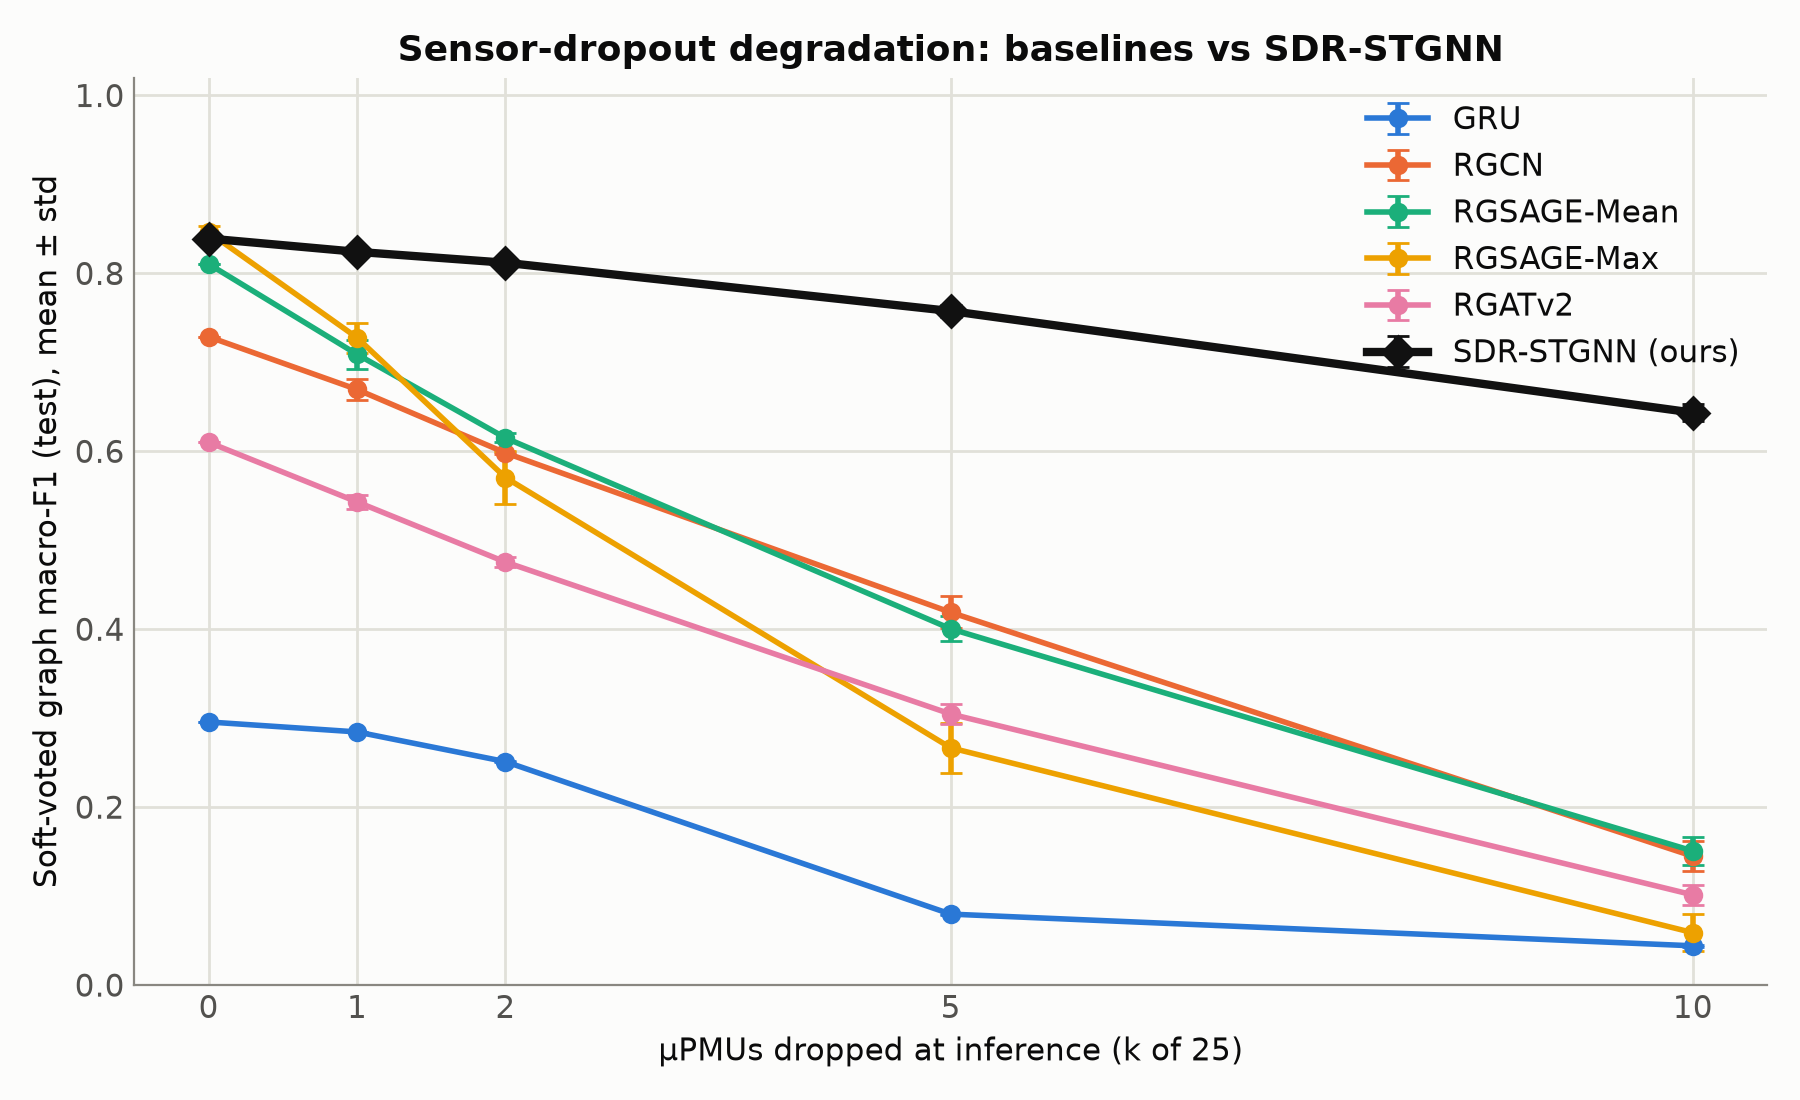
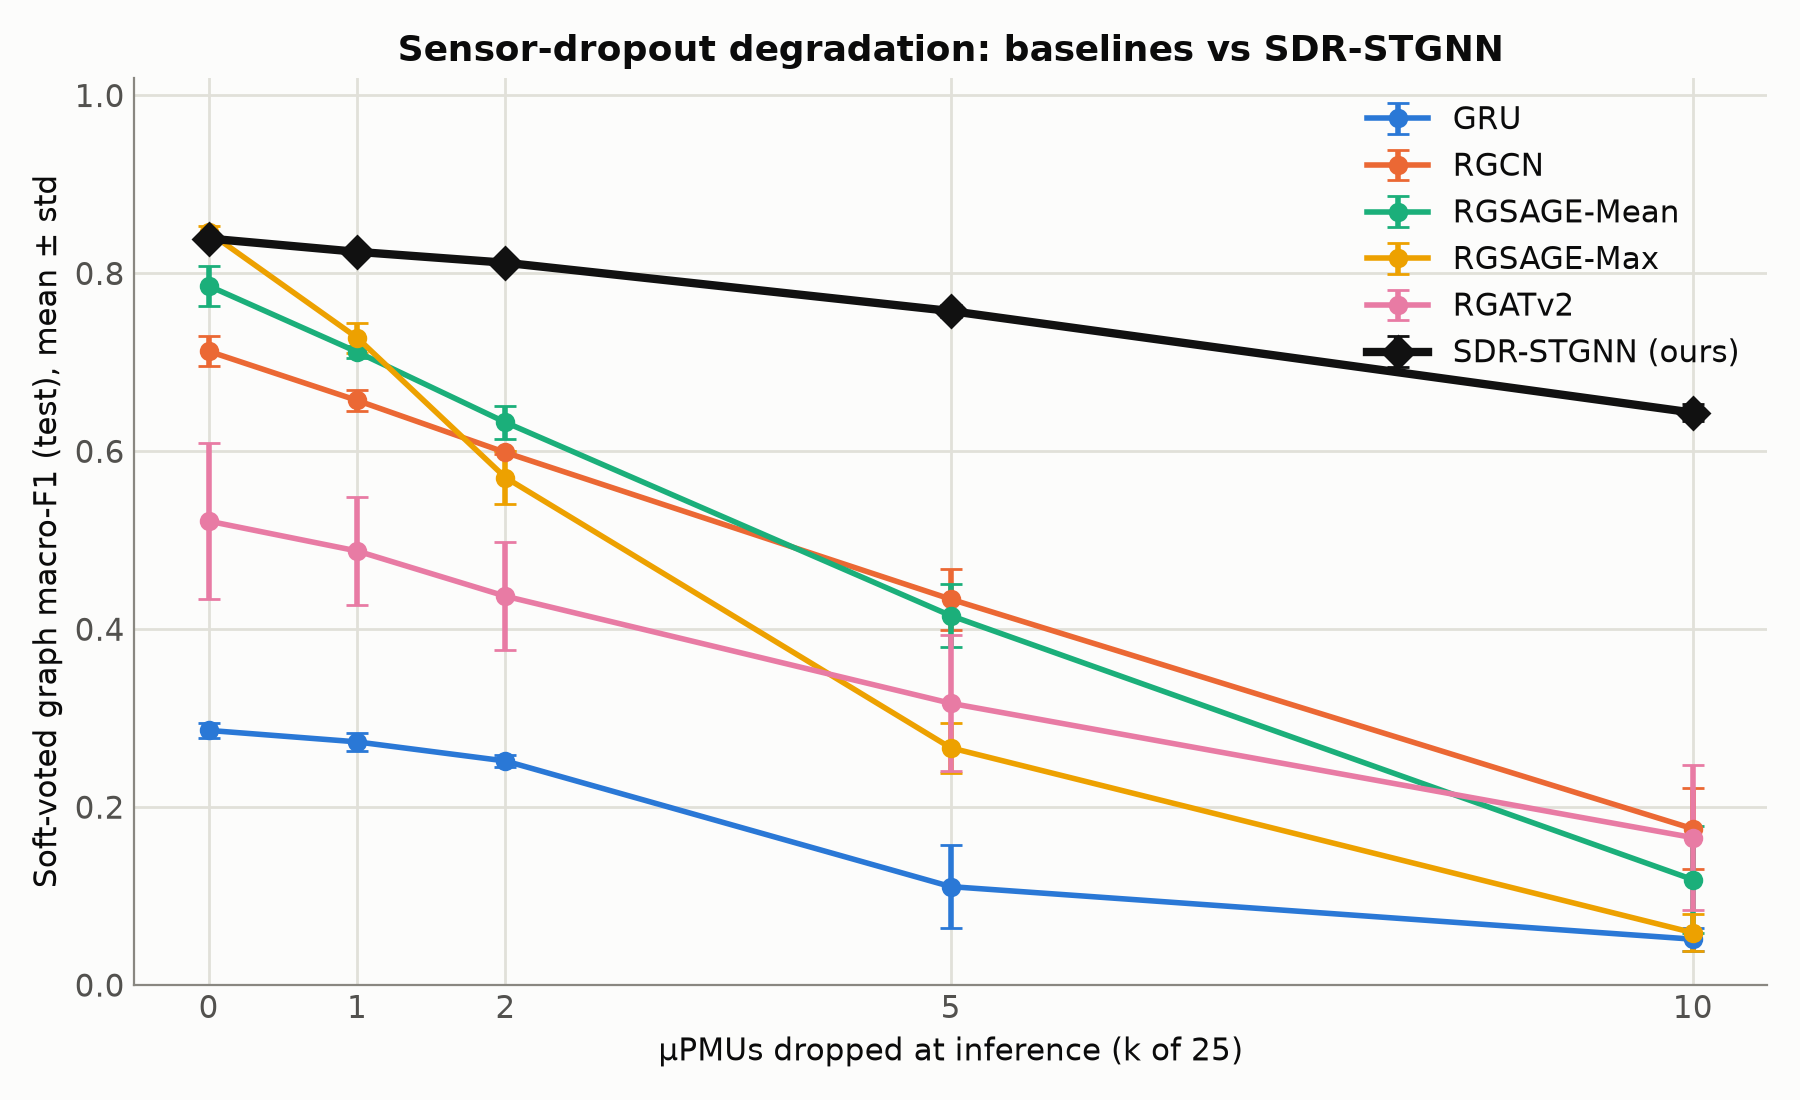
Eval Sweep done and folder into paper where we did the 3 seed averaging which also chnged robustness ranking

diff --git a/paper/overleaf.tex b/paper/overleaf.tex
@@ -605,7 +605,7 @@ Section~\ref{sec:methods}. Training was fully deterministic through fixed random
 
 \textbf{Training objective.} Models are trained by minimizing the node-level cross-entropy loss defined in Section~\ref{sec:methods}, without class weighting. Class imbalance is addressed by dataset construction rather than by the loss. Specifically, the corpus is balanced with 50\% no-fault samples (Table~\ref{tab:dataset}), while the 25 fault locations are uniformly represented through the $25 \times 11 \times 3$ factorial design. The training distribution therefore does not favour any fault location, and a standard cross-entropy objective provides equal treatment to all classes. This is a deliberate departure from a common inverse-frequency-weighted recipe, discussed further in Section~\ref{sec:repro}.
 
-\textbf{Seeds and multi-seed reporting.} All sources of training stochasticity --- parameter initialization, mini-batch ordering, and the dropout-aware masking procedure --- are controlled by a single integer random seed. All five baselines (GRU, RGCN, RGSAGE-Mean, RGSAGE-Max, and RGATv2) and both robustness variants (dropout-aware RGSAGE-Max and SDR-STGNN) were trained using three independent seeds (42, 43, and 44), and their reported full-observability metrics are the mean\,$\pm$\,standard deviation across these runs. The sensor-dropout degradation analysis (Section~\ref{sec:res-degrade}) is seed-averaged for RGSAGE-Max and the two robustness variants; for the other four baselines it is evaluated on the seed-42 checkpoint, with the reported variability there arising from the random mask realizations (Section~\ref{sec:dropout-eval}).
+\textbf{Seeds and multi-seed reporting.} All sources of training stochasticity --- parameter initialization, mini-batch ordering, and the dropout-aware masking procedure --- are controlled by a single integer random seed. All five baselines (GRU, RGCN, RGSAGE-Mean, RGSAGE-Max, and RGATv2) and both robustness variants (dropout-aware RGSAGE-Max and SDR-STGNN) were trained using three independent seeds (42, 43, and 44), and their reported full-observability metrics are the mean\,$\pm$\,standard deviation across these runs. The sensor-dropout degradation analysis (Section~\ref{sec:res-degrade}) is likewise seed-averaged over 42/43/44 for every model, with three random mask realizations per seed (Section~\ref{sec:dropout-eval}).
 
 \textbf{Dropout-aware training.} The dropout-aware variant (Section~\ref{sec:dropout-aware}) uses the same optimization and training configuration described above. The only modification is that each mini-batch is augmented immediately before the forward pass by randomly masking each window, with the dropout level uniformly sampled from $\{0,1,2,5\}$. No hyperparameter was retuned, so any change in robustness can be attributed solely to training-time augmentation rather than to a different training budget.
 
@@ -636,7 +636,7 @@ which constitutes paper's primary evaluation. Finally, we show the effectiveness
 
 Unless otherwise stated, all results are computed on the frozen test split defined in Table~\ref{tab:dataset}. All five baselines and the two robustness variants are reported at full observability as
 mean\,$\pm$\,standard deviation over three independent training seeds
-(42, 43, and 44). The sensor-dropout degradation curves (Section~\ref{sec:res-degrade}) are seed-averaged for RGSAGE-Max and the robustness variants, and evaluated on the seed-42 checkpoint for the other four baselines, consistent with Section~\ref{sec:setup}.
+(42, 43, and 44). The sensor-dropout degradation curves (Section~\ref{sec:res-degrade}) are seed-averaged over 42/43/44 for every model, consistent with Section~\ref{sec:setup}.
  
 \subsection{Baseline Accuracy Under Full Observability}
 \label{sec:res-baseline}
@@ -747,9 +747,9 @@ Table~\ref{tab:baseline} also addresses the spatial-depth question introduced in
 \subsection{Accuracy Degradation Under Sensor Dropout}
 \label{sec:res-degrade}
 
-We now freeze each baseline and evaluate it under the dropout sweep of Section~\ref{sec:dropout-eval}, progressively moving $k\in\{0,1,2,5,10\}$ of the $25$ $\mu$PMUs at inference time. Table~\ref{tab:degradation} summarizes the resulting degradation curves through the normalized area under the retention curve (AUDC) and the retention at the most severe dropout level ($k=10$, corresponding to $40\%$ sensor loss), while Fig.~\ref{fig:degradation} shows the complete macro-$F_1$ degradation curves. All models decline in performance as sensors are removed, and the loss becomes substantial at higher dropout levels. No baseline retains more than a fifth of its full-observability macro-F1 at $k=10$.
+We now freeze each baseline and evaluate it under the dropout sweep of Section~\ref{sec:dropout-eval}, progressively moving $k\in\{0,1,2,5,10\}$ of the $25$ $\mu$PMUs at inference time. Table~\ref{tab:degradation} summarizes the resulting degradation curves through the normalized area under the retention curve (AUDC) and the retention at the most severe dropout level ($k=10$, corresponding to $40\%$ sensor loss), while Fig.~\ref{fig:degradation} shows the complete macro-$F_1$ degradation curves. All models decline in performance as sensors are removed, and the loss becomes substantial at higher dropout levels. No baseline retains more than a third of its full-observability macro-F1 at $k=10$.
 
-The results reveal a clear trade-off between clean accuracy and robustness. RGSAGE-Max, the strongest model under full observability, is also the least robust to sensor dropout: its graph-level macro-$F_1$ falls from $0.846$ to $0.059$ at $k=10$ (AUDC $0.414$), retaining only $7.0\%$ of its full-observability performance. In contrast, RGCN, which ranks behind RGSAGE-Max at $k=0$, achieves the highest robustness (AUDC $0.586$), retaining $19.9\%$ of its baseline performance, with RGSAGE-Mean and RGATv2 lying between these extremes. Clean accuracy therefore does not predict robustness to sensor loss.
+The results reveal a clear trade-off between clean accuracy and robustness. RGSAGE-Max, the strongest model under full observability, is also the least robust to sensor dropout: its graph-level macro-$F_1$ falls from $0.846$ to $0.059$ at $k=10$ (AUDC $0.414$), retaining only $7.0\%$ of its full-observability performance. The remaining models retain a larger fraction of their (lower) baseline accuracy: RGATv2 and RGCN show the highest retention (AUDC $0.634$ and $0.615$; $31.8\%$ and $24.7\%$ at $k=10$), with RGSAGE-Mean and GRU in between. RGATv2's apparent robustness should be read with caution, however: it has the lowest clean accuracy of the GNNs and by far the largest seed variance (up to $\pm0.09$ macro-F1), so its high \emph{relative} retention partly reflects a low starting point and training instability rather than a genuinely graceful degradation. The robust conclusion is that clean accuracy does not predict robustness to sensor loss --- the most accurate model degrades the fastest.
 
 This behaviour is consistent with the aggregation operators. Under our evaluation protocol, a dropped node keeps its edges but propagates a zeroed embedding (Section~\ref{sec:dropout-eval}); max-aggregation, which selects a single dominant neighbour, is the most exposed to such a corrupted message being injected into a live node's neighbourhood, whereas mean and normalized-sum aggregation dilute it. This observation motivates the availability-gated mechanism of Section~\ref{sec:sdr}, which is designed to remove that corrupted message entirely --- the same failure mode that dropout-aware training instead teaches the network to tolerate.
 
@@ -766,24 +766,23 @@ This behaviour is consistent with the aggregation operators. Under our evaluatio
            normalized area under the retention curve
            $\mathrm{F1}(k)/\mathrm{F1}(0)$ over the swept $k$
            (higher $=$ more robust); Ret.@10 is the fraction of the $k=0$
-           score retained at $k=10$. Each point is the mean over three shared
-           mask realizations; per-point mask-realization standard deviation is
-           below 0.03 for all models, and RGSAGE-Max additionally averages over
-           seeds 42/43/44. For the four single-seed baselines the $k{=}0$ entry
-           is the seed-42 checkpoint used throughout this dropout evaluation, and
-           so differs slightly from the seed-averaged full-observability means in
-           Table~\ref{tab:baseline}; AUDC and Ret.@10 are computed relative to
-           each model's own $k{=}0$ and are unaffected.}
+           score retained at $k=10$. Every entry is averaged over training seeds
+           42/43/44 and three shared mask realizations per seed, so the $k{=}0$
+           column matches the full-observability means of Table~\ref{tab:baseline}.
+           The per-point standard deviation over seeds stays below $0.05$ for all
+           models except RGATv2, whose training instability at four layers gives a
+           larger spread (up to $0.09$); AUDC and Ret.@10 are computed relative to
+           each model's own $k{=}0$.}
   \label{tab:degradation}
   \footnotesize
   \begin{tabular}{@{}lccccccc@{}}
     \toprule
     Model       & $k{=}0$ & $k{=}1$ & $k{=}2$ & $k{=}5$ & $k{=}10$ & AUDC & Ret.@10 \\
     \midrule
-    RGCN        & 0.729 & 0.669 & 0.598 & 0.419 & 0.145 & \textbf{0.586} & \textbf{19.9\%} \\
-    RGATv2      & 0.610 & 0.543 & 0.476 & 0.305 & 0.101 & 0.536 & 16.6\% \\
-    RGSAGE-Mean & 0.811 & 0.709 & 0.615 & 0.400 & 0.151 & 0.533 & 18.6\% \\
-    GRU         & 0.296 & 0.285 & 0.251 & 0.080 & 0.044 & 0.461 & 14.9\% \\
+    RGATv2      & 0.522 & 0.488 & 0.437 & 0.317 & 0.166 & \textbf{0.634} & \textbf{31.8\%} \\
+    RGCN        & 0.712 & 0.657 & 0.599 & 0.434 & 0.176 & 0.615 & 24.7\% \\
+    RGSAGE-Mean & 0.786 & 0.712 & 0.633 & 0.415 & 0.119 & 0.551 & 15.1\% \\
+    GRU         & 0.286 & 0.273 & 0.252 & 0.111 & 0.052 & 0.521 & 18.0\% \\
     RGSAGE-Max  & \textbf{0.846} & \textbf{0.728} & 0.570 & 0.267 & 0.059 & 0.414 & 7.0\% \\
     \bottomrule
   \end{tabular}
@@ -800,11 +799,10 @@ This behaviour is consistent with the aggregation operators. Under our evaluatio
            dropped at inference, for the five baselines and the
            availability-gated SDR-STGNN (black; introduced in
            Section~\ref{sec:res-aware}). Markers are means; error bars denote
-           $\pm 1$ standard deviation over the three shared mask realizations,
-           and additionally over training seeds 42/43/44 for RGSAGE-Max and
-           SDR-STGNN. RGSAGE-Max (orange), the most accurate baseline at
-           $k=0$, degrades the fastest, whereas SDR-STGNN---trained with
-           dropout-aware augmentation---stays nearly flat.}
+           $\pm 1$ standard deviation over training seeds 42/43/44 (three shared
+           mask realizations per seed). RGSAGE-Max (orange), the most accurate
+           baseline at $k=0$, degrades the fastest, whereas SDR-STGNN---trained
+           with dropout-aware augmentation---stays nearly flat.}
   \label{fig:degradation}
 \end{figure}
 
@@ -893,11 +891,11 @@ dropout-aware curve for all $k\ge1$. As expected, the three variants coincide un
  
 \subsection{Which Architectures Are Most Robust to Sensor Loss}
 
-The five baselines expose an inverse relationship between clean accuracy and robustness. Ranked by full-observability macro-F1 the order is RGSAGE-Max ($0.846$), RGSAGE-Mean ($0.786$), RGCN ($0.712$), RGATv2 ($0.522$), and GRU ($0.286$); ranked by robustness (AUDC) the order is almost reversed --- RGCN ($0.586$), RGATv2 ($0.536$), RGSAGE-Mean ($0.533$), GRU ($0.461$), and RGSAGE-Max ($0.414$). The most accurate model under full observability is therefore the least robust to sensor loss, while RGCN --- only third in clean accuracy --- is the most robust, retaining $19.9\%$ of its score at $k=10$ against RGSAGE-Max's $7.0\%$.
+The five baselines expose an inverse relationship between clean accuracy and robustness. Ranked by full-observability macro-F1 the order is RGSAGE-Max ($0.846$), RGSAGE-Mean ($0.786$), RGCN ($0.712$), RGATv2 ($0.522$), and GRU ($0.286$); ranked by robustness (AUDC) the order is RGATv2 ($0.634$), RGCN ($0.615$), RGSAGE-Mean ($0.551$), GRU ($0.521$), and RGSAGE-Max ($0.414$). The most accurate model under full observability is thus the least robust to sensor loss. The nominal top of the robustness ranking, RGATv2, is also the least accurate GNN and the most variable across seeds ($\pm0.09$ macro-F1), so its lead over RGCN sits within noise; the firm conclusion is the inversion at the extremes --- the strongest clean model degrades the fastest, retaining only $7.0\%$ at $k=10$ against RGCN's $24.7\%$.
 
-This ordering follows from how each operator treats the zeroed embedding that a dropped sensor propagates (Section~\ref{sec:dropout-eval}). Max-pooling forwards the single largest activation in a neighbourhood, so one corrupted message can dominate a live node's update; RGSAGE-Max, the strongest clean model, is consequently the most fragile. Normalized-sum (RGCN) and mean (RGSAGE-Mean) aggregation average the corrupted message against the surviving ones and degrade more gracefully. Attention (RGATv2) could in principle down-weight a dropped neighbour, but its weights are computed from features and are not availability-aware, leaving it between the two extremes. GRU performs no spatial aggregation and is thus insensitive to neighbours' dropout, but its localization is capped by the absence of spatial reasoning.
+This ordering follows from how each operator treats the zeroed embedding that a dropped sensor propagates (Section~\ref{sec:dropout-eval}). Max-pooling forwards the single largest activation in a neighbourhood, so one corrupted message can dominate a live node's update; RGSAGE-Max, the strongest clean model, is consequently the most fragile. Normalized-sum (RGCN) and mean (RGSAGE-Mean) aggregation average the corrupted message against the surviving ones and degrade more gracefully. Attention (RGATv2) could in principle down-weight a dropped neighbour, but its weights are computed from features and are not availability-aware; its high retention is accompanied by large seed variance, so we do not read it as a reliably superior operator. GRU performs no spatial aggregation and is thus insensitive to neighbours' dropout, but its localization is capped by the absence of spatial reasoning.
 
-The practical implication is that the choice of aggregation operator is a weak lever for robustness: even the most robust baseline loses four-fifths of its accuracy at $40\%$ dropout, and no baseline exceeds $20\%$ retention. Deployment-level robustness comes not from the aggregator but from training. Dropout-aware training raises retention from $7.0\%$ to $80.6\%$ on the same RGSAGE-Max backbone (Table~\ref{tab:aware}), and because it alters only the input masking it applies unchanged to every architecture studied. The availability-gated SDR-STGNN confirms this from the opposite side: adding a structural gate on top of dropout-aware training matches but does not exceed it (AUDC $0.895$ versus $0.916$), because silencing every dropped node at every hop also removes the multi-hop paths that would otherwise route information around a failure. Robustness to sensor dropout is thus best treated as a training-time property rather than an architectural one.
+The practical implication is that the choice of aggregation operator is a weak lever for robustness: even the most robust baseline retains under a third of its accuracy at $40\%$ dropout, and every model loses the majority of its performance. Deployment-level robustness comes not from the aggregator but from training. Dropout-aware training raises retention from $7.0\%$ to $80.6\%$ on the same RGSAGE-Max backbone (Table~\ref{tab:aware}), and because it alters only the input masking it applies unchanged to every architecture studied. The availability-gated SDR-STGNN confirms this from the opposite side: adding a structural gate on top of dropout-aware training matches but does not exceed it (AUDC $0.895$ versus $0.916$), because silencing every dropped node at every hop also removes the multi-hop paths that would otherwise route information around a failure. Robustness to sensor dropout is thus best treated as a training-time property rather than an architectural one.
 
 \subsection{Limitations}
 
@@ -906,7 +904,7 @@ Several limitations bound the scope of these findings.
   \item \emph{Single feeder and topology.} All experiments use the IEEE 123-bus feeder in its default configuration. We did not evaluate the reconfigured (``green'') topology of \cite{Karabulut2026} or any other feeder, so generalization across network sizes and topologies remains open (Section~\ref{sec:repro}).
   \item \emph{Missingness model.} Sensors are dropped independently and uniformly at random per window. Real $\mu$PMU failures are often correlated --- co-located units, a shared communication path, or a substation outage fail together --- and persist over time rather than resampling each window. Structured failures may degrade, and may respond to mitigation, differently.
   \item \emph{Dataset scale.} Our depth-4, unweighted, $1.65$\,M-window dataset yields a strongest-baseline macro-F1 of $0.846$ (Section~\ref{sec:repro}). All comparisons in this study are internally consistent, but absolute magnitudes are not directly comparable to \cite{Karabulut2026}, which uses a different corpus.
-  \item \emph{Single-seed degradation for four baselines.} Only RGSAGE-Max and the two robustness variants carry training-seed error bars in the dropout sweep; the other four baselines' degradation curves are evaluated on the seed-42 checkpoint (Section~\ref{sec:res-degrade}). RGATv2 in particular shows high training-seed variance ($\pm0.087$ at $k=0$), so its robustness ranking should be read as indicative.
+  \item \emph{RGATv2 training-seed variance.} All degradation curves are seed-averaged over 42/43/44, but RGATv2 shows high training-seed variance ($\pm0.087$ at $k=0$) from instability at the adopted four-layer depth (Section~\ref{sec:res-degrade}). Its nominal top robustness ranking should therefore be read as indicative rather than a firm ordering over the mid-tier baselines.
   \item \emph{No imputation baseline.} We contrast a training-time mitigation with an architectural one; we do not compare against impute-then-infer pipelines such as \cite{zhang2025} or \cite{fan2024}. Whether reconstructing dropped measurements before inference can match dropout-aware training is left to future work.
   \item \emph{Training dropout range.} Dropout-aware training samples $k\in\{0,1,2,5\}$, so the $k=10$ ($40\%$) evaluation probes beyond the training distribution. Recovery remains strong there, but larger or adaptive dropout budgets were not tuned.
 \end{itemize}

diff --git a/scripts/run_dropout_aware_sweep.py b/scripts/run_dropout_aware_sweep.py
@@ -120,6 +120,9 @@ def main() -> int:
     p.add_argument("--data-root", default="dataset_fullscale_50")
     p.add_argument("--benchmark-version", default=BENCHMARK_VERSION)
     p.add_argument("--models", nargs="+", default=MODELS)
+    p.add_argument("--seeds", type=int, nargs="+", default=SEEDS,
+                   help="Training seeds to run (default: [42]). Resumable: any "
+                        "(model, seed) with an existing metrics.json is skipped.")
     p.add_argument("--epochs", type=int, default=30)
     p.add_argument("--gnn-layers", type=int, default=4)
     args = p.parse_args()
@@ -128,12 +131,14 @@ def main() -> int:
         device = "cpu"
         epochs = 1
         models = ["rgsage_max"]
+        seeds = [42]
         data_root = "dataset"
         print("=== DRY-RUN: cpu / dataset (tiny) / 1 epoch / rgsage_max ===")
     else:
         device = "cuda"
         epochs = args.epochs
         models = args.models
+        seeds = args.seeds
         data_root = args.data_root
 
     failures: list[str] = []
@@ -143,7 +148,7 @@ def main() -> int:
             model, device=device, epochs=epochs, gnn_layers=args.gnn_layers,
             output_root=args.output_root, data_root=data_root,
         )
-        for seed in SEEDS:
+        for seed in seeds:
             ok, _ = run_one(model, seed, cfg_path,
                             benchmark_version=args.benchmark_version,
                             data_root=data_root, output_root=args.output_root,
